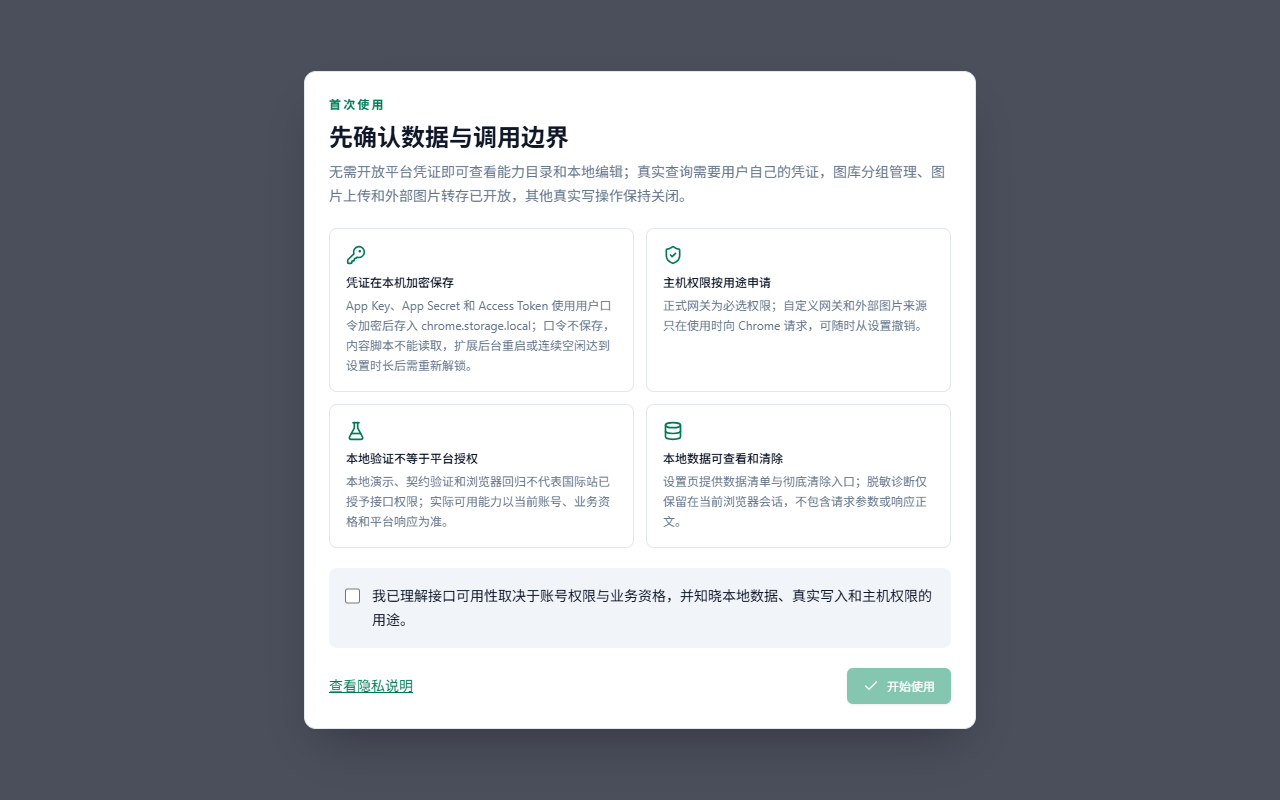
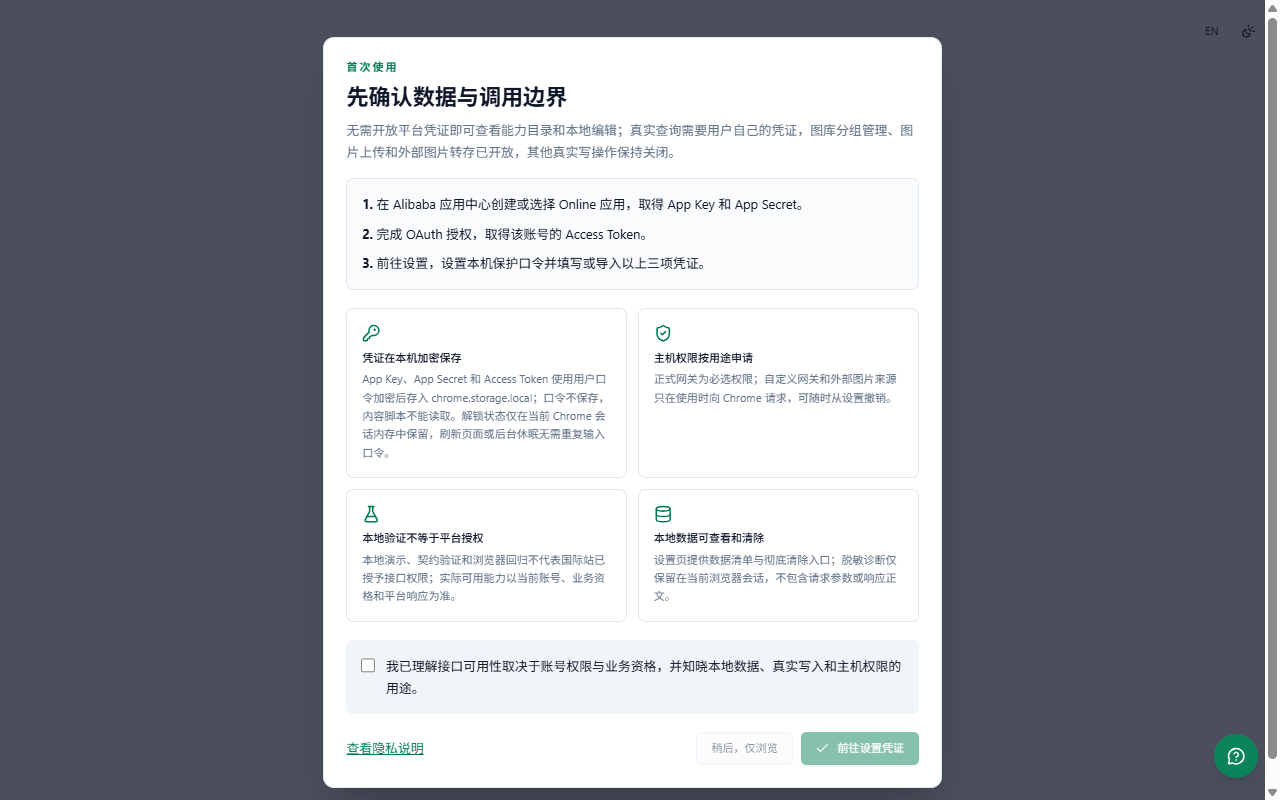
chore(store): refresh v2.2.0 listing assets

Changed region(s): [[0.2188, 0.0312, 0.7812, 1.0], [0.9375, 0.0, 1.0, 1.0]]

diff --git a/scripts/capture-store-assets.ts b/scripts/capture-store-assets.ts
@@ -2,7 +2,7 @@ import { copyFile, mkdir, mkdtemp, rm } from 'node:fs/promises';
 import { tmpdir } from 'node:os';
 import { resolve } from 'node:path';
 
-import { chromium } from '@playwright/test';
+import { chromium, type Page } from '@playwright/test';
 
 const root = resolve(import.meta.dirname, '..');
 const extensionPath = resolve(root, 'apps/extension/.output/chrome-mv3');
@@ -17,6 +17,8 @@ const context = await chromium.launchPersistentContext(userDataDirectory, {
   headless: false,
   viewport: { width: 1280, height: 800 },
   deviceScaleFactor: 1,
+  locale: 'zh-CN',
+  colorScheme: 'light',
   args: [`--disable-extensions-except=${extensionPath}`, `--load-extension=${extensionPath}`]
 });
 
@@ -28,24 +30,37 @@ try {
   await page.goto(`chrome-extension://${extensionId}/options.html`);
   await page.getByRole('heading', { name: '先确认数据与调用边界' }).waitFor();
   await page.waitForFunction(() => document.querySelector('.ov-modal-enter-active') === null);
+  await page.evaluate(() => {
+    document.documentElement.style.zoom = '0.92';
+  });
+  await settlePointer(page);
   await assertNoInternalReleaseText(page.locator('body').innerText());
   await page.screenshot({ path: resolve(screenshotsDirectory, '01-onboarding.png') });
 
   await page.getByRole('checkbox').check();
-  await page.getByRole('button', { name: '开始使用' }).click();
+  await page.getByRole('button', { name: '稍后，仅浏览' }).click();
   await page.getByRole('heading', { name: '运营总览' }).waitFor();
+  await page.evaluate(() => {
+    document.documentElement.style.zoom = '';
+  });
 
   await page.getByRole('link', { name: 'API 能力' }).click();
   await page.getByRole('heading', { name: 'API 能力目录' }).waitFor();
+  await settlePointer(page);
   await assertNoInternalReleaseText(page.locator('body').innerText());
   await page.screenshot({ path: resolve(screenshotsDirectory, '02-capability-catalog.png') });
 
   await page.getByRole('link', { name: '设置' }).click();
-  await page.getByRole('heading', { name: '本地数据与隐私' }).scrollIntoViewIfNeeded();
-  await page.getByRole('button', { name: '清空诊断' }).click();
-  await page.getByText('诊断记录已清空。').waitFor();
+  const localDataHeading = page.getByRole('heading', { name: '本地数据与隐私' });
+  await localDataHeading.evaluate((element) => {
+    element.scrollIntoView({ block: 'start' });
+  });
+  await page.evaluate(() => {
+    window.scrollBy(0, -96);
+  });
   await page.getByRole('button', { name: '刷新清单' }).click();
-  await page.getByLabel('诊断记录数量').filter({ hasText: '0 条' }).waitFor();
+  await page.getByLabel('诊断记录数量').waitFor();
+  await settlePointer(page);
   await assertNoInternalReleaseText(page.locator('body').innerText());
   await page.screenshot({ path: resolve(screenshotsDirectory, '03-local-data-control.png') });
 } finally {
@@ -60,4 +75,9 @@ async function assertNoInternalReleaseText(textPromise: Promise<string>): Promis
   if (/\bmock\b|测试账号|test account|smoke test|真实账号验收/iu.test(text)) {
     throw new Error('Store screenshot page contains internal test or demonstration terminology.');
   }
+}
+
+async function settlePointer(page: Page): Promise<void> {
+  await page.mouse.move(640, 16);
+  await page.waitForTimeout(250);
 }
